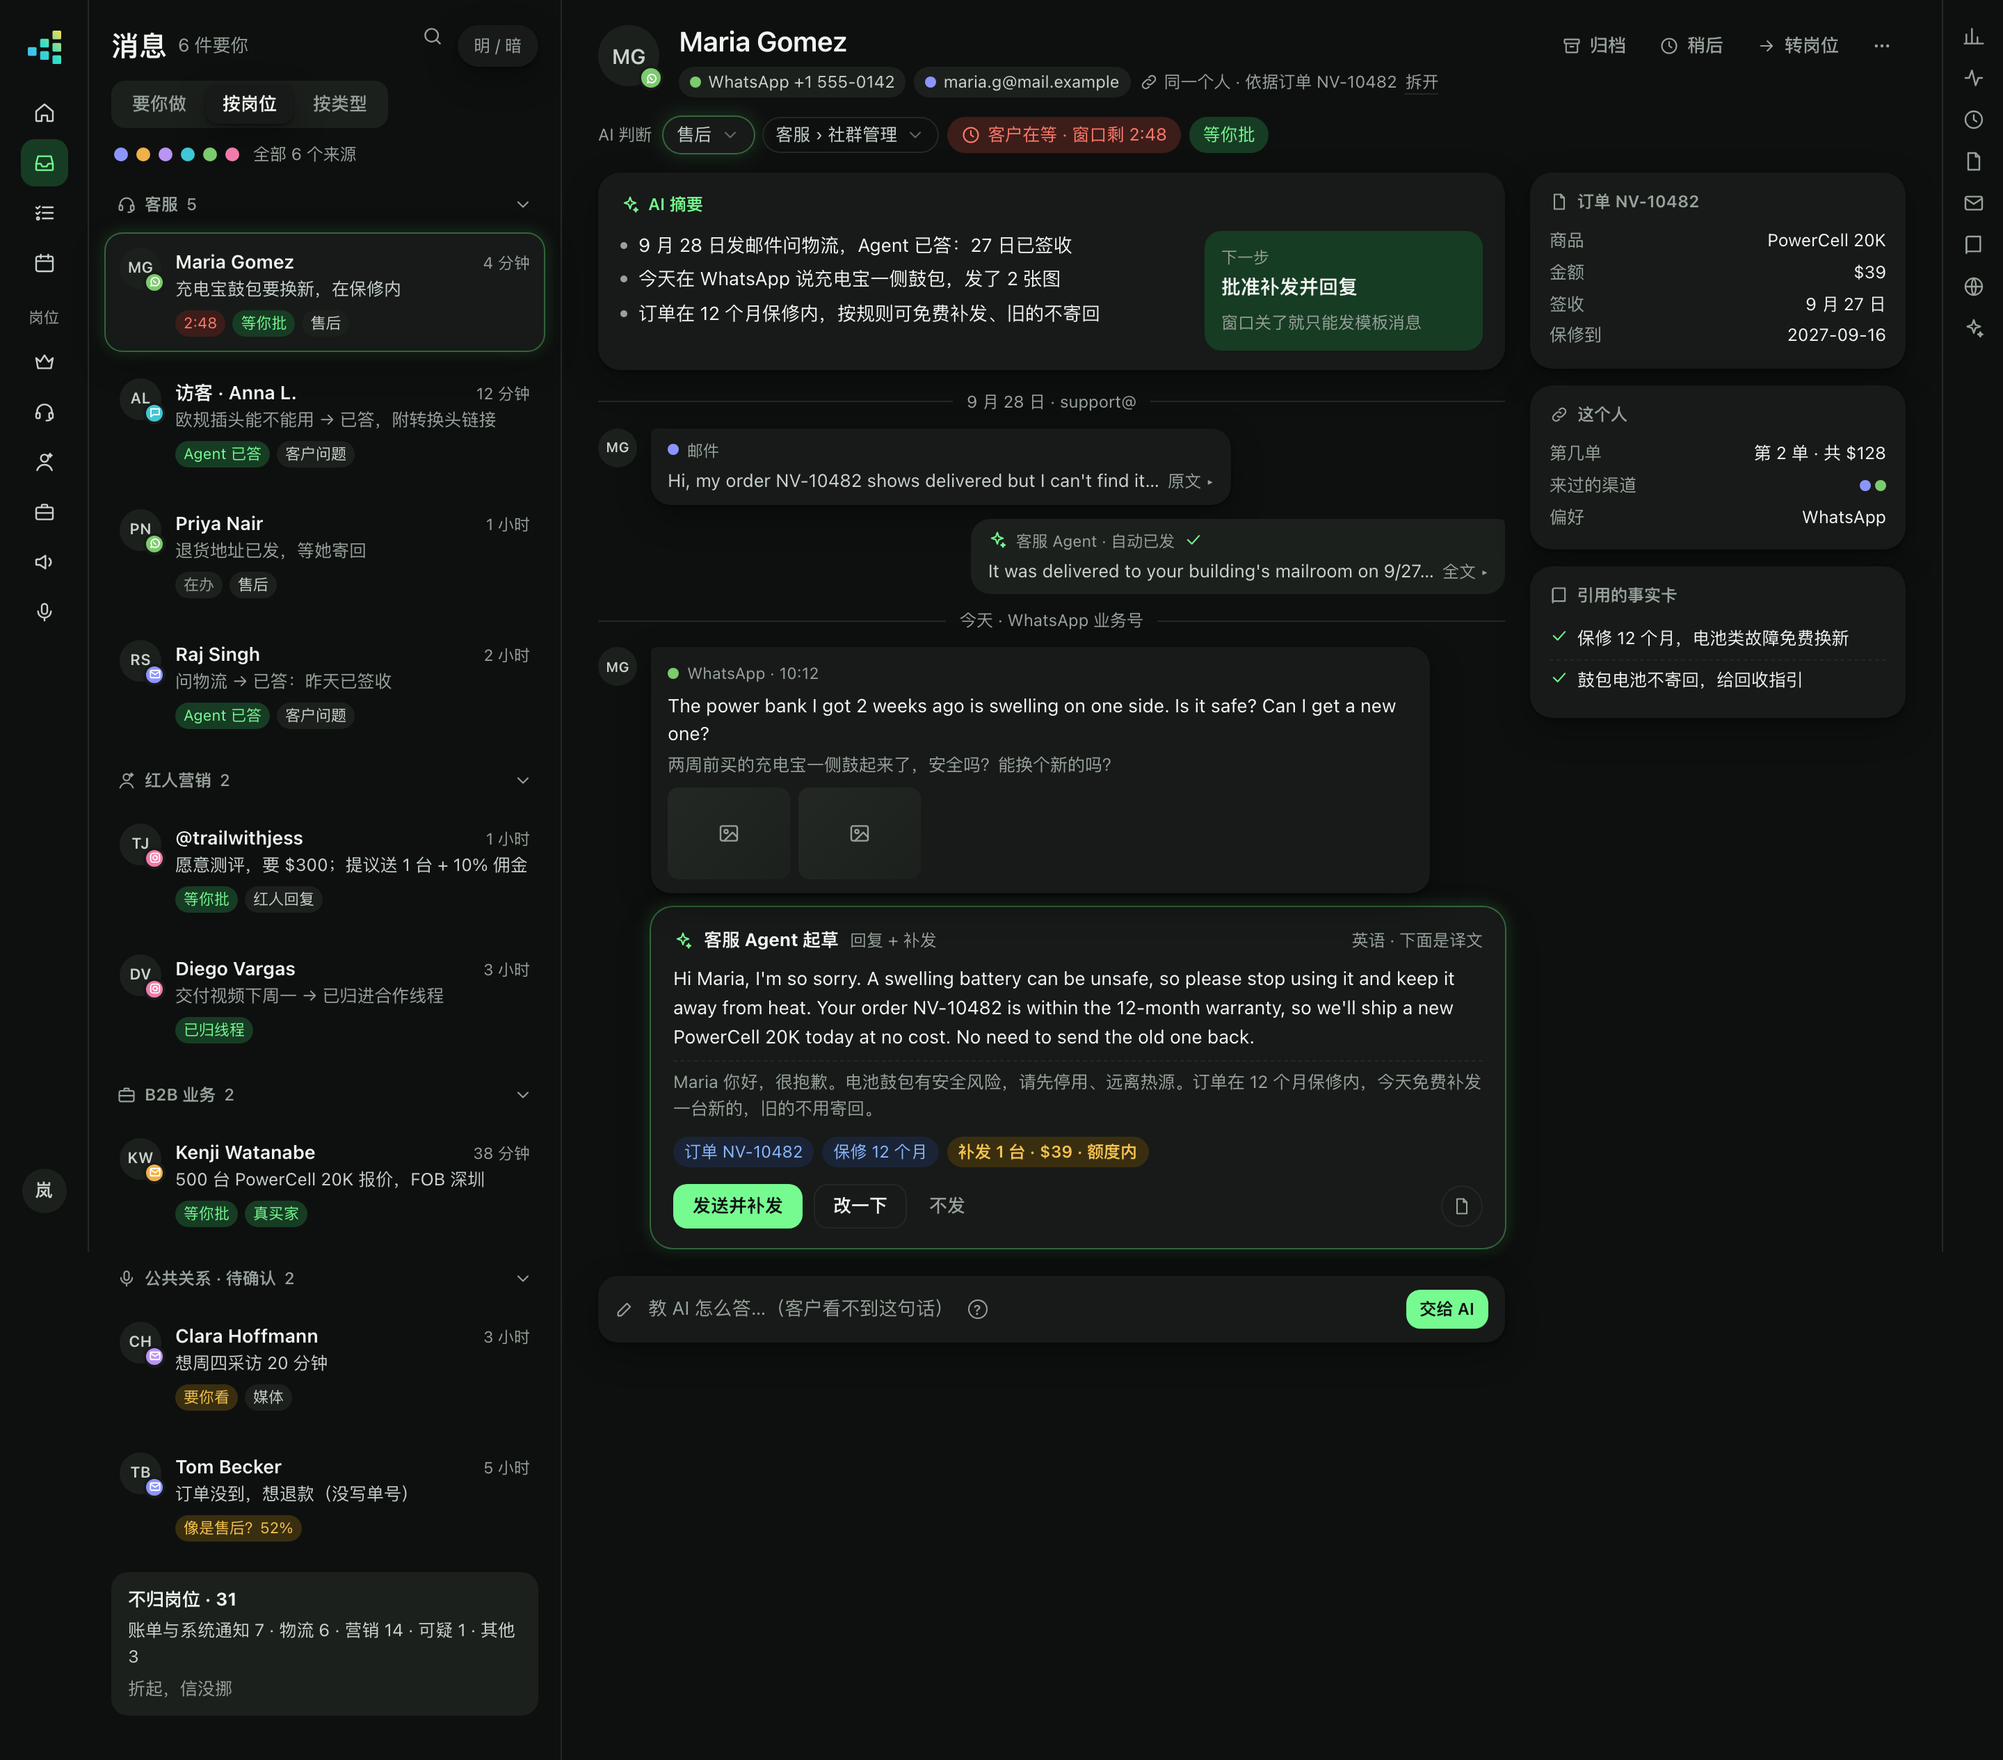
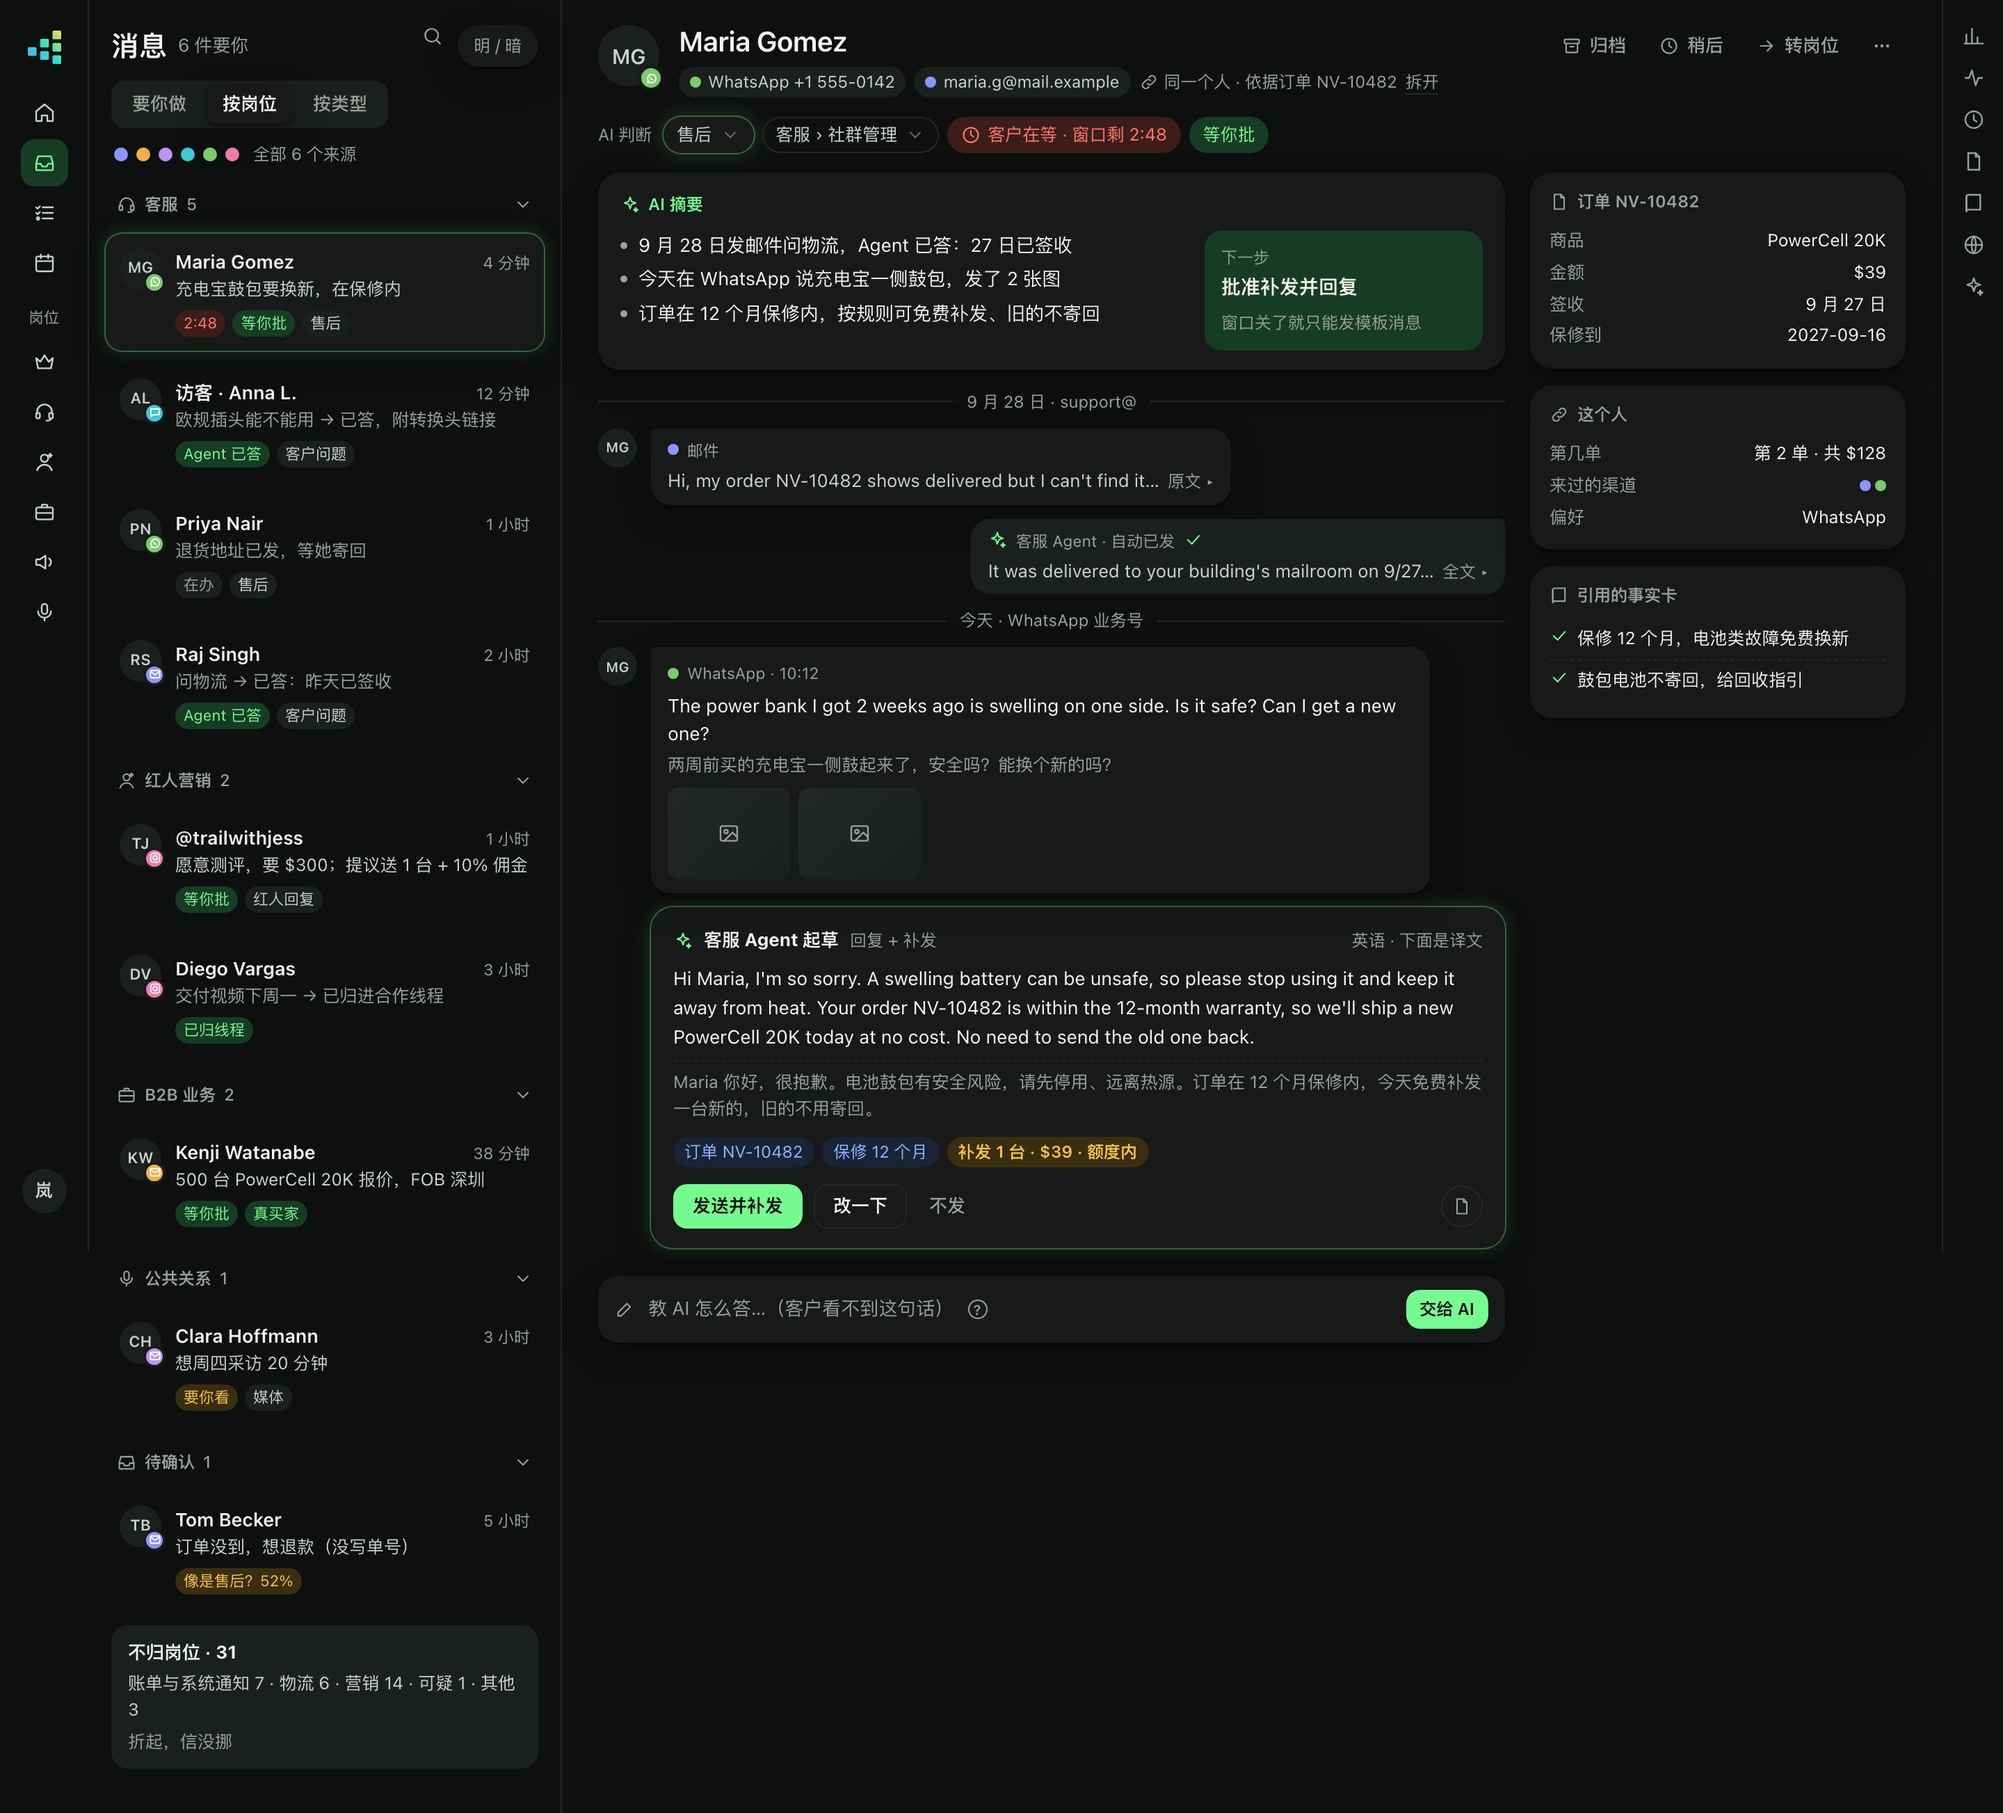
docs(88,design): 邮件助手落点接 WP208；改判层补齐十个类型；第三栏去掉邮件助手图标

diff --git a/docs/design/inbox/direction-b-conversation.html b/docs/design/inbox/direction-b-conversation.html
@@ -303,8 +303,9 @@ html.pop-on .pop{display:block}
   <div class="grp"><svg class="ico sm" style="margin:0"><use href="#i-case"/></svg>B2B 业务<span class="c">2</span><svg class="ico sm"><use href="#i-down"/></svg></div>
   <div class="li"><span class="av">KW<span class="ch a3"><svg><use href="#i-mail"/></svg></span></span><div class="bd"><div class="t1"><b>Kenji Watanabe</b><span>38 分钟</span></div><div class="t2">500 台 PowerCell 20K 报价，FOB 深圳</div><div class="t3"><span class="chip s-ap">等你批</span><span class="chip s-ok">真买家</span></div></div></div>
 
-  <div class="grp"><svg class="ico sm" style="margin:0"><use href="#i-mic"/></svg>公共关系 · 待确认<span class="c">2</span><svg class="ico sm"><use href="#i-down"/></svg></div>
+  <div class="grp"><svg class="ico sm" style="margin:0"><use href="#i-mic"/></svg>公共关系<span class="c">1</span><svg class="ico sm"><use href="#i-down"/></svg></div>
   <div class="li"><span class="av">CH<span class="ch a4"><svg><use href="#i-mail"/></svg></span></span><div class="bd"><div class="t1"><b>Clara Hoffmann</b><span>3 小时</span></div><div class="t2">想周四采访 20 分钟</div><div class="t3"><span class="chip s-lk">要你看</span><span class="chip k">媒体</span></div></div></div>
+  <div class="grp"><svg class="ico sm" style="margin:0"><use href="#i-inbox"/></svg>待确认<span class="c">1</span><svg class="ico sm"><use href="#i-down"/></svg></div>
   <div class="li"><span class="av">TB<span class="ch a1"><svg><use href="#i-mail"/></svg></span></span><div class="bd"><div class="t1"><b>Tom Becker</b><span>5 小时</span></div><div class="t2">订单没到，想退款（没写单号）</div><div class="t3"><span class="chip s-lk">像是售后？52%</span></div></div></div>
 
   <div class="fold"><b>不归岗位 · 31</b>账单与系统通知 7 · 物流 6 · 营销 14 · 可疑 1 · 其他 3<span class="muted">折起，信没挪</span></div>
@@ -343,7 +344,8 @@ html.pop-on .pop{display:block}
         <span>客户问题</span><span class="on"><svg class="ico sm"><use href="#i-check"/></svg>售后</span>
         <span>询盘</span><span>红人回复</span>
         <span>合作</span><span>媒体</span>
-        <span>账单与系统通知</span><span>垃圾与营销</span>
+        <span>账单与系统通知</span><span>物流</span>
+        <span>垃圾与营销</span><span>个人与其他</span>
       </div>
       <div class="rm"><input type="checkbox" checked style="margin-top:2px"> 记住：这个人以后都按我改的来</div>
       <div class="pf"><span class="btn ghost sm">取消</span><span class="btn pri sm">改</span></div>
@@ -405,7 +407,6 @@ html.pop-on .pop{display:block}
   <svg class="ico"><use href="#i-run"/></svg>
   <svg class="ico"><use href="#i-clock"/></svg>
   <svg class="ico"><use href="#i-file"/></svg>
-  <svg class="ico"><use href="#i-mail"/></svg>
   <svg class="ico"><use href="#i-book"/></svg>
   <svg class="ico"><use href="#i-globe"/></svg>
   <svg class="ico"><use href="#i-ai"/></svg>

diff --git a/docs/design/inbox/direction-a-briefing.html b/docs/design/inbox/direction-a-briefing.html
@@ -503,7 +503,6 @@ html[data-theme="dark"] .lane .pi{color:var(--brand)}
   <svg class="ico"><use href="#i-run"/></svg>
   <svg class="ico"><use href="#i-clock"/></svg>
   <svg class="ico"><use href="#i-file"/></svg>
-  <svg class="ico"><use href="#i-mail"/></svg>
   <svg class="ico"><use href="#i-book"/></svg>
   <svg class="ico"><use href="#i-globe"/></svg>
   <svg class="ico"><use href="#i-ai"/></svg>

diff --git a/docs/88-AI消息中心-v1.md b/docs/88-AI消息中心-v1.md
@@ -165,6 +165,10 @@
 - **草稿显示两种语言**：客户的语言是会发出去的那份，下面一行淡色中文译文（Intercom 的双向翻译思路）。译文**按需生成**（卡片展开时才译，缓存），不对每封预译——与 63 §F「按需生成」同一条纪律。
 - 证据还在右上角「证据 N」（36 §2.2 证据层进右栏），消息里只摆三个外围芯片：对象（订单）→ 额度 → 事实卡。
 
+### 5.1b 邮件助手不在第三栏了（接 WP208）
+
+Luoye 09-30：「为什么邮件助手会放到这个第三栏？应该很自然地集成在消息里。」WP208 先做最小搬家（阅读区里一块可收起的「AI 助手」）。本设计里它的最终落点是：**A 稿卡片展开区**（草稿卡 + 右边"为什么这么判 / 同一个人"）与 **B 稿对话视图**（置顶摘要与下一步、时间线里的草稿卡、最右的上下文栏）。63 §I 与 36 §9.4 那个 `mail-assistant` 右栏面板到这一步退役；设计稿的第三栏图标轨里已经没有它。
+
 ### 5.2 多账号与渠道
 
 - **账号色**：一个账号一个颜色，专用一套六色（与状态色分开：状态用 `--ws-good/warn/bad/info`，账号用另一套靛 / 青 / 琥珀 / 紫 / 玫 / 绿，明暗各一份），只出现在两处：筛选胶囊前的色点、头像右下角的渠道角标底色。**颜色只说"哪个账号"，不说"好坏"**。超过六个账号循环，并在筛选里配上账号名。
